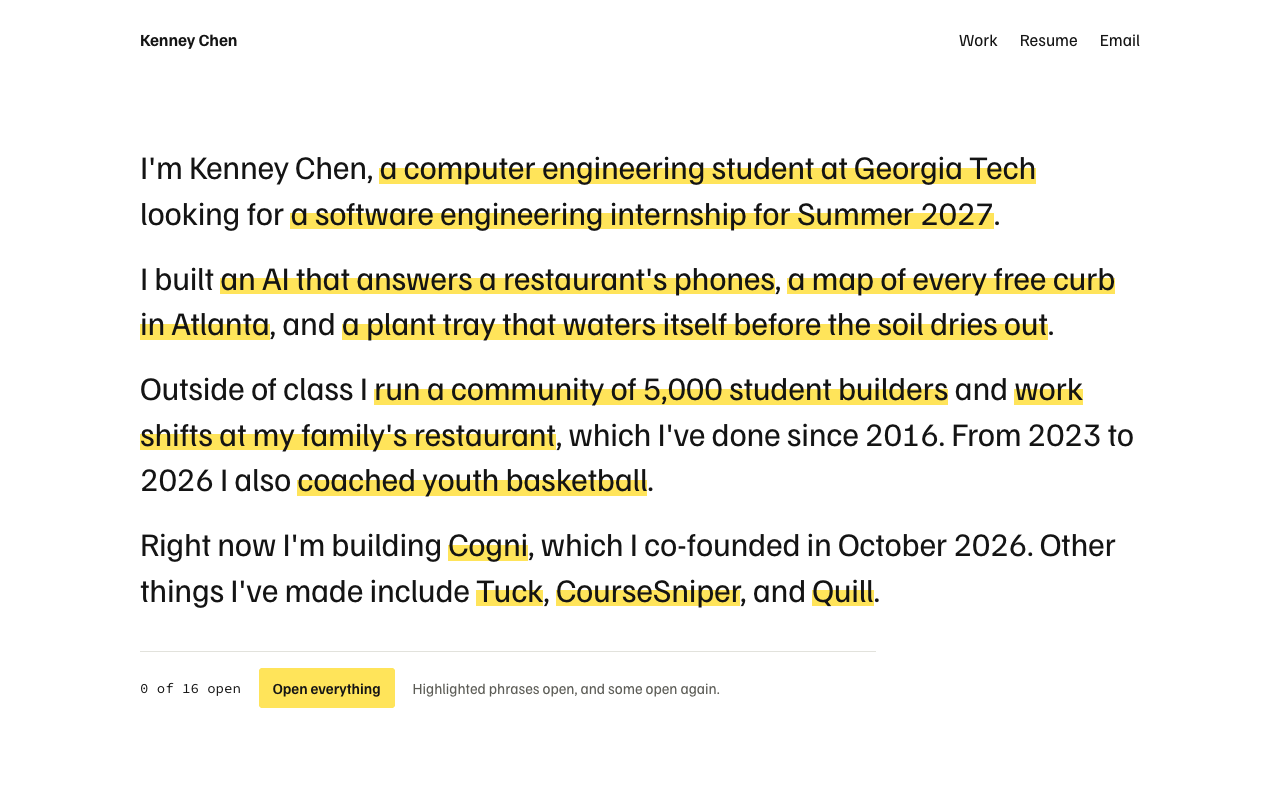
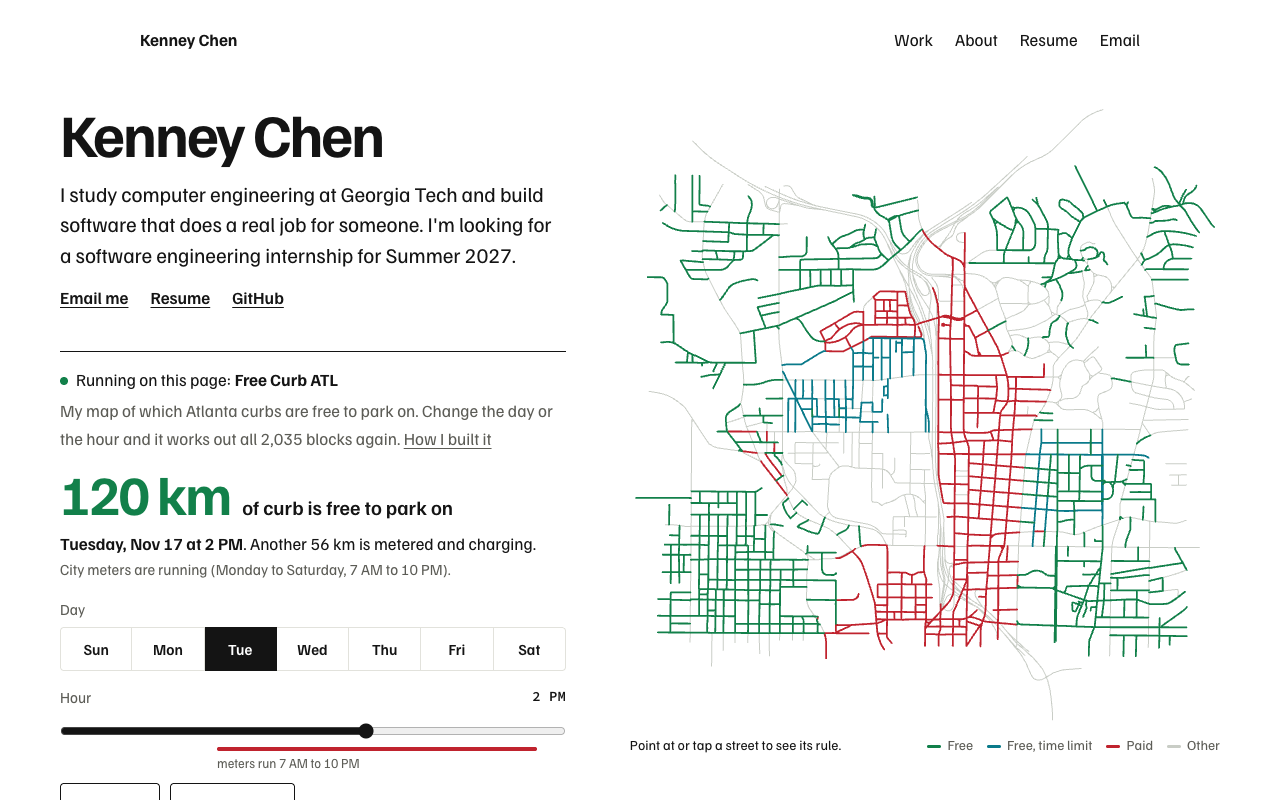
Rewrite the README with an editing guide, and regenerate the screenshots

diff --git a/README.md b/README.md
@@ -2,25 +2,53 @@
 
 My portfolio. It's live at [kcmake.github.io/house-of-chen](https://kcmake.github.io/house-of-chen/).
 
-The home page is one paragraph about me. Every highlighted phrase opens more of the story in place, and some of what opens has highlights of its own, down to the code. A recruiter can stop after the first read. An engineer can keep opening.
+The first screen says who I am in two sentences, next to one of my projects running on the page. That project is Free Curb ATL, my map of which Atlanta curbs are free to park on. Change the day or the hour and all 2,035 blocks are worked out again.
 
-![The home page: a short paragraph about Kenney with phrases highlighted in yellow](docs/home.png)
+![The home page: Kenney's name and two sentences beside a map of Atlanta streets colored by parking rule](docs/home.png)
 
 ## What's on it
 
-- **The paragraph.** Who I am, what I've built, and the internship I'm looking for, with the details one tap away.
-- **Write-ups.** For the bigger projects: the problem, the first try, what broke, and what shipped, with real code pinned to a commit.
-- **Work.** Every project in one list, with the result next to each.
+- **The first screen.** Who I am, what I'm looking for, and Free Curb ATL running with its real data and its real meter rules.
+- **Work.** Every project in one list, each with a small drawing of what it does, the result, and a filter.
+- **Write-ups.** For the bigger projects: the problem, the first try, what broke, and what shipped, with real code pinned to a commit. Projects that can run in a browser start with a running piece.
+- **About.** One paragraph whose highlighted phrases open in place, down to the code.
 - **Resume.** A plain page that prints cleanly, and the one-page PDF made from it.
 
-![Two phrases opened: the map of free curbs, then how all 2,035 blocks were worked out](docs/home-open.png)
+![The same map on a Sunday, when the meters are off and the paid streets turn free](docs/home-sunday.png)
+
+## How to change things
+
+Everything you would want to edit is a small file under `src/data/` or `src/art/`. `npm run dev` shows changes as you save, and `npm run ci` tells you if something is off before it goes live.
+
+| To change | Edit |
+|---|---|
+| Name, school, email, links, the resume | `src/data/site.ts` |
+| The two sentences on the first screen | `src/pages/index.astro` |
+| A project's one-liner, result, links, or write-up | its file in `src/data/projects/` |
+| The About paragraph | `src/data/sentence.ts` |
+| Colors and fonts | `src/styles/tokens.css` |
+
+**Add a project.** Copy a short file like `src/data/projects/portify.ts`, rename it, and fill it in. It shows up in the work list by itself:
+
+- `group` puts it under Projects or Leadership.
+- `order` sets its place in that list, lowest first. The existing ones go up in tens, so 25 lands between 20 and 30.
+- `tags` are what the filter matches: AI, Web, Tools, Hardware, Leadership.
+- Add a `writeup` and it gets a page at `/work/<slug>/`.
+
+**Give it a drawing.** Add an entry under the same slug in `src/art/index.ts`. The drawings share a 96 by 64 grid and a handful of classes, listed at the top of that file. A test fails if a project has no drawing.
+
+**Give it a running piece.** Put a pure model and a small script under `src/demos/<name>/`, make a component for it, add the name to `demo` in `src/data/types.ts`, and add a line to `src/components/Demo.astro`. Then set `demo: '<name>'` on the project.
+
+**Refresh the map data.** After Free Curb ATL changes, run `node scripts/make-curb-data.mjs <path to its data/parking.geojson>`. A test checks the totals against the numbers in the write-up.
 
 ## How it works
 
-- `src/data/sentence.ts` is the paragraph as data: plain text, highlighted phrases, and what each phrase opens. Tests check that every phrase opens to something and that the fully open paragraph still reads as clean sentences.
+- `src/demos/curb/` is Free Curb ATL: the meter hours ported from the real project and tested against the same cases, a model that works out each block's color, and a canvas script that draws them. The block data is `public/demo/curbs.json`, loaded after the text is on screen.
+- `src/demos/sniper/` is CourseSniper's seat rule, ported from the bot. An empty seat is not a free seat when people are waiting for it, and the demo lets you find that out.
 - `src/data/projects/` has one file per project. The work list, the write-ups, and the resume read from the same files, so they can't disagree.
-- `src/scripts/sentence.ts` opens and closes phrases. Words slide from where they were to where they end up instead of jumping. They stay inline text and move with relative offsets, because an inline-block lets the browser wrap a lone comma onto the next line.
-- Everything is in the HTML from the start. Without JavaScript, every phrase is simply open.
+- `src/art/index.ts` holds one hand-drawn SVG per project.
+- `src/data/sentence.ts` and `src/scripts/sentence.ts` are the About paragraph and the script that opens it.
+- The words are in the HTML from the start. Without JavaScript the first screen still says who I am and links to the full map, and every phrase on the About page is open.
 - `scripts/ai-look-check.mjs` fails the build when the code drifts toward the looks AI tools default to: stock typefaces, gradient headline text, blurred glass panels, purple palettes, and stock phrases.
 
 ![The Free Curb ATL write-up](docs/write-up.png)
@@ -41,6 +69,8 @@ npm run build
 npm run test:e2e   # browser and accessibility tests; uses your installed Chrome locally
 ```
 
+`npm run ci` runs all four in order, the same as GitHub Actions does before it deploys.
+
 The resume PDF, the link preview, and the screenshots above are made from the built site:
 
 ```bash
@@ -51,7 +81,7 @@ It builds for GitHub Pages at `/house-of-chen/` by default. Set `SITE_URL` and `
 
 ## History
 
-The first version of this site was built as my family's restaurant, with a menu, a swinging door to the kitchen, and a lazy Susan. It told a story, but a visitor had to learn the restaurant before learning anything about me, so this version keeps one idea. The restaurant is still in the git history.
+The first version of this site was built as my family's restaurant, with a menu, a swinging door to the kitchen, and a lazy Susan. It told a story, but a visitor had to learn the restaurant before learning anything about me. The second was one paragraph that opens in place. It read quickly but showed nothing. This version runs the work instead of describing it, and the paragraph lives on the About page. Both earlier versions are in the git history.
 
 ## License
 
